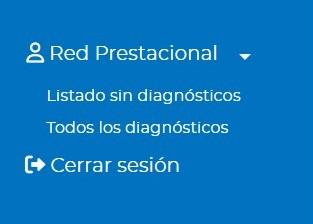
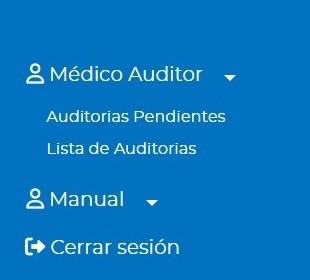
modificaciones de manual

diff --git a/templates/Pages/manual.php b/templates/Pages/manual.php
@@ -51,11 +51,11 @@
 						</div>
 						<div class="col-8">
 							<p>
-								<span>Ausentes con resultados:</span> Listado de personas auditadas.<br>
-								<span>Ausentes sin resultados: </span> Listado de personas por auditar.<br>
-								<span>Listado personas:  </span> Listado de todas las personas de la empresa y estado de reportes.<br>
-								<span>Nuevo Ausente: </span> Entrada de pedido de auditor&iacute;a referido al listado de personas. En este se elige el auditor y el auditor recibir&aacute;en su casilla un mail que le advierte la entrada de un nuevo auditado<br>
-								<span>Nueva persona: </span> formulario de datos filiatorios de la persona.<br>
+								<span>Lista de Auditor&iacute;as Realizadas:</span> Listado de personas auditadas.<br>
+								<span>Auditor&iacute;as Pendientes: </span> Listado de personas por auditar.<br>
+								<span>Listado de Agentes:  </span> Listado de todas las personas de la empresa y estado de reportes.<br>
+								<span>Nueva Auditor&iacute;a: </span> Entrada de pedido de auditor&iacute;a referido al listado de personas. En este se elige el auditor y el auditor recibir&aacute;en su casilla un mail que le advierte la entrada de un nuevo auditado<br>
+								<span>Nuevo Agente: </span> formulario de datos filiatorios de la persona.<br>
 								<span>Lista de empresas:  </span> Listado de empresas que envían personas a auditar.<br>
 								<span>Nueva empresa: </span> Alta de empresa.<br>
 
@@ -79,9 +79,9 @@
 						</div>
 						<div class="col-8">
 							<p>
-								<span>Listado sin diagn&oacute;sticos: </span> : Listado de personas atribuidas al auditor.
+								<span>Auditor&iacute;s Pendientes: </span> : Listado de personas atribuidas al auditor.
 								En este se encuentra la entrada al formulario de diagn&oacute;stico el cual culmina con el resultado y firmado del Auditor. Para esto la primera vez que entra un nuevo auditor a la aplicación debe registrar una firma gr&aacute;fica que junto con su licencia rubricar&aacute;n la documentaci&oacute;n.<br>
-								<span>Todos los diagnósticos:  </span>Listado de todos los auditados. <br>
+								<span>Lista de Auditor&iacute;as:  </span>Listado de todos los auditados. <br>
 							</p>
 						</div>
 					</div>
